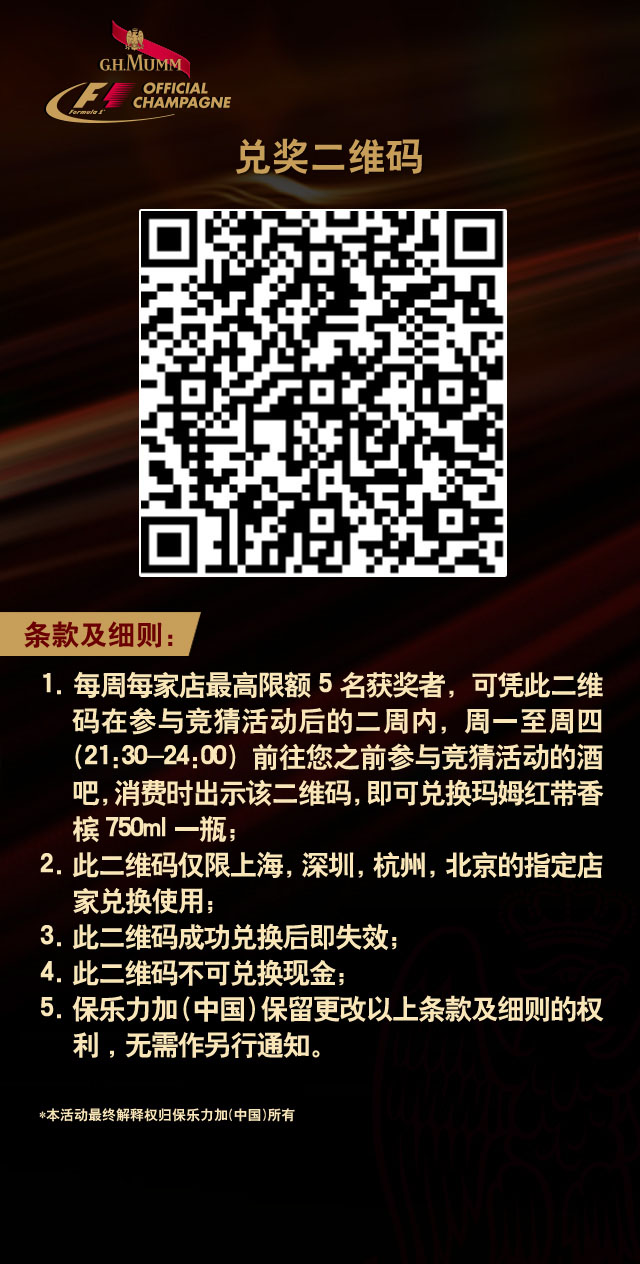
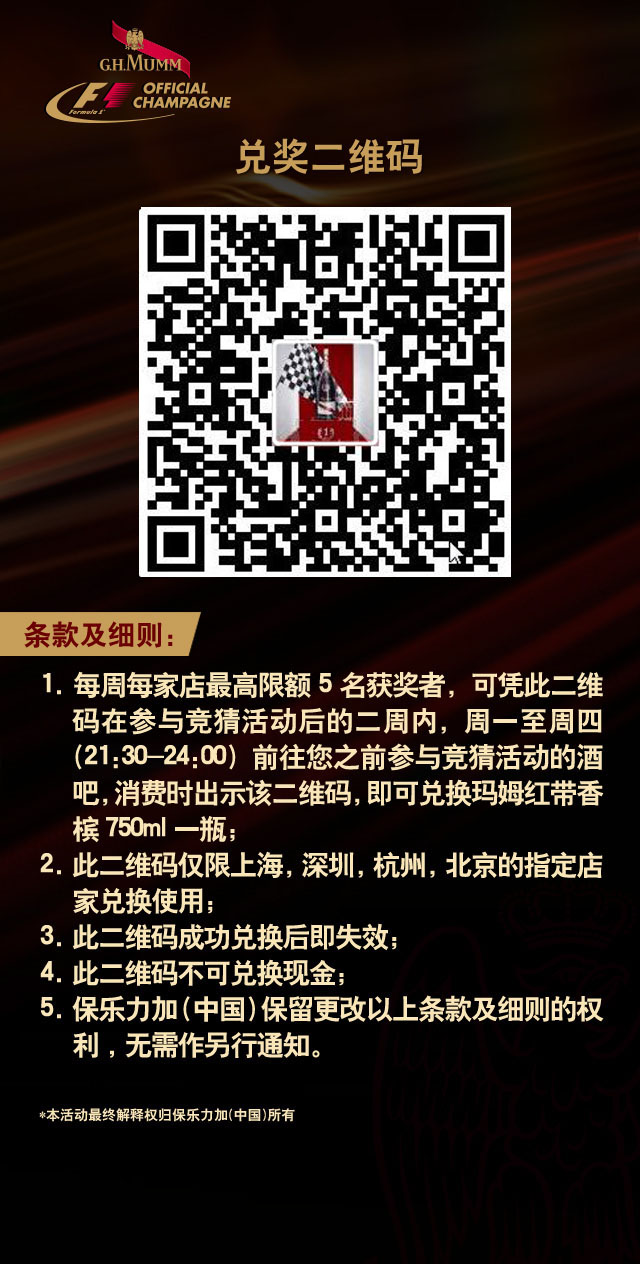
change qrcode process

Changed region(s): [[0.2188, 0.1543, 0.8125, 0.4628]]

diff --git a/src/cashlottery/personalInfo.html b/src/cashlottery/personalInfo.html
@@ -10,6 +10,14 @@
     <meta content="black" name="apple-mobile-web-app-status-bar-style"/>
     <link href="../css/module.css" rel="stylesheet">
     <script src="../js/beyond.wechat.share-0.1.js" type="text/javascript"></script>
+    <script src="../js/jquery-1.11.1.min.js" type="text/javascript"></script>
+    <script type="text/javascript">
+        $(window).ready(function () {
+            $("#submitBtn").click(function() {
+                window.location.href = window.location.href.substring(0, window.location.href.lastIndexOf('/')) + "/mumm.html";
+            });
+        });
+    </script>
 </head>
 <body style="background:#000;">
 <div align="center"><img src="../images/top_cell.jpg" width="100%" border="0" hspace="0" vspace="0"/>
@@ -39,7 +47,7 @@
                     </tr>
                     <tr>
                         <td>&nbsp;</td>
-                        <td><input type="image" name="cmdOk" src="../images/submit.png" align="top"/></td>
+                        <td><input id="submitBtn" type="image" name="cmdOk" src="../images/submit.png" align="top"/></td>
                     </tr>
                     <tr>
                         <td colspan="2"><img src="../images/wine.png" width="280" height="195"/></td>

diff --git a/src/pageIndex.html b/src/pageIndex.html
@@ -35,7 +35,7 @@
 <p><a href="cashlottery/qrcode.html">兑奖流程—3.二维码</a></p>
 
 
-<p><a href="cashlottery/gotmumm.html">兑奖流程—4.兑换成功</a></p>
+<p><a href="cashlottery/mumm.html">兑奖流程—4.兑换成功</a></p>
 
 <p style="text-align: center">活动说明页面</p>
 <p></p>

diff --git a/src/cashlottery/bingo.html b/src/cashlottery/bingo.html
@@ -15,7 +15,7 @@
 <div class="app_main">
     <img class="bg_pic" src="../images/bingobg.jpg">
     <a href="../info/schedule.html" class="btn_exp btn_exp3"></a>
-    <a href="personalinfo.html" class="btn_exp btn_exp4"></a>
+    <a href="qrcode.html" class="btn_exp btn_exp4"></a>
 </div>
 </body>
 </html>
